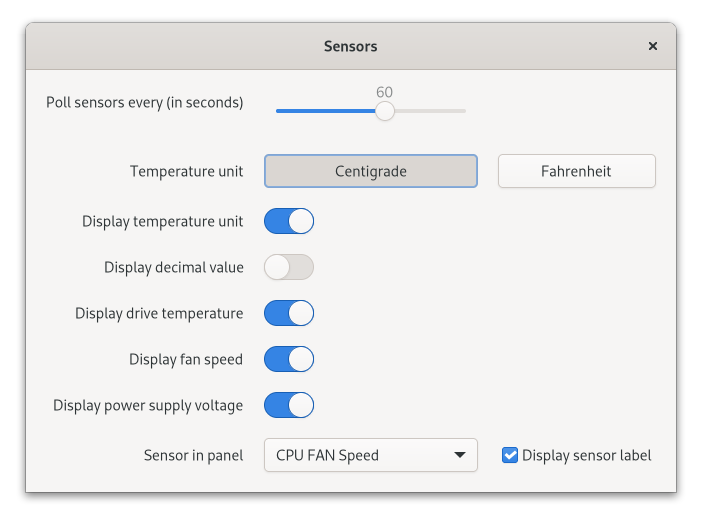
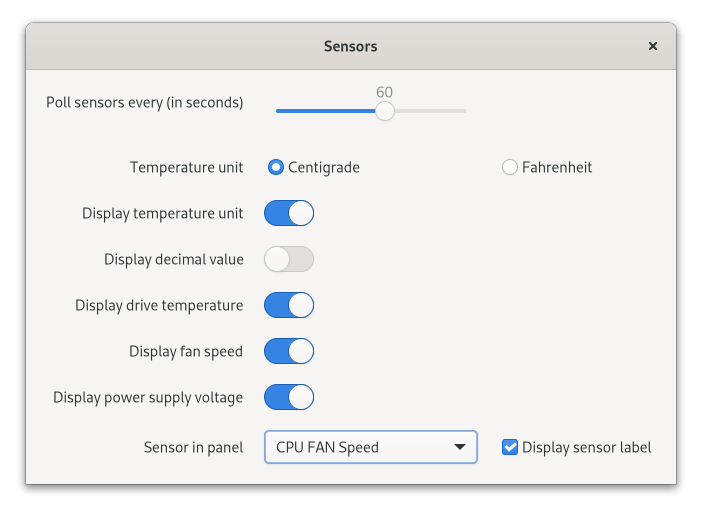
Fixed Issue #39. Changed ToggleButton to CheckButton in prefs

diff --git a/src/prefs.js b/src/prefs.js
@@ -56,8 +56,8 @@ const SensorsPrefsWidget = new GObject.Class({
         }
         else {
             //Shell 40 or higher
-            centigradeRadio = new Gtk.ToggleButton({ label: _("Centigrade") });
-            fahrenheitRadio = new Gtk.ToggleButton({ group: centigradeRadio, label: _("Fahrenheit") });
+            centigradeRadio = new Gtk.CheckButton({ label: _("Centigrade") });
+            fahrenheitRadio = new Gtk.CheckButton({ group: centigradeRadio, label: _("Fahrenheit") });
         }
 
         fahrenheitRadio.connect('toggled', Lang.bind(this, this._onUnitChanged, 'Fahrenheit'));
